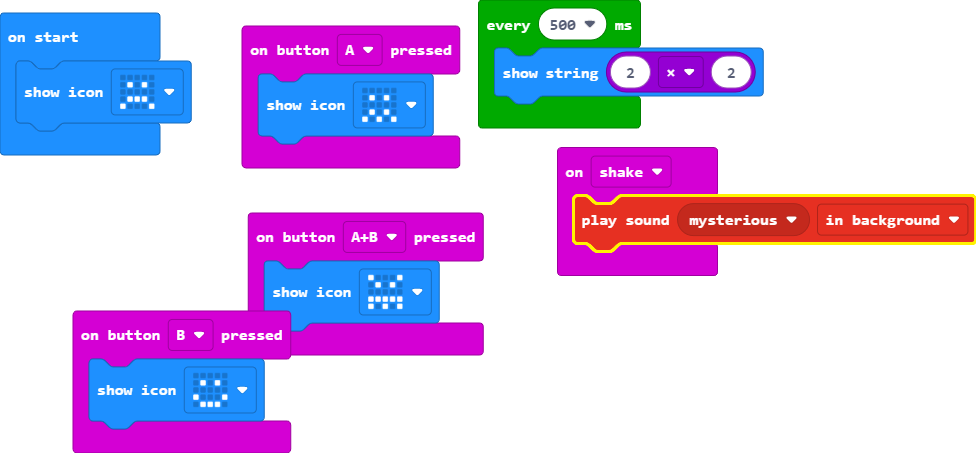
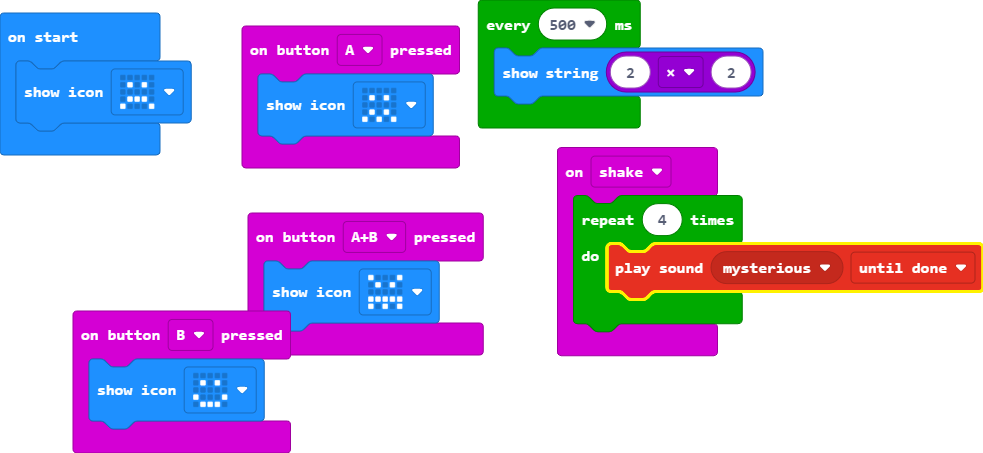
Update main.blocks, main.ts

diff --git a/main.ts b/main.ts
@@ -8,7 +8,9 @@ input.onButtonPressed(Button.B, function () {
     basic.showIcon(IconNames.Happy)
 })
 input.onGesture(Gesture.Shake, function () {
-    music.playSoundEffect(music.builtinSoundEffect(soundExpression.mysterious), SoundExpressionPlayMode.InBackground)
+    for (let index = 0; index < 4; index++) {
+        music.playSoundEffect(music.builtinSoundEffect(soundExpression.mysterious), SoundExpressionPlayMode.UntilDone)
+    }
 })
 basic.showIcon(IconNames.Sad)
 loops.everyInterval(500, function () {
